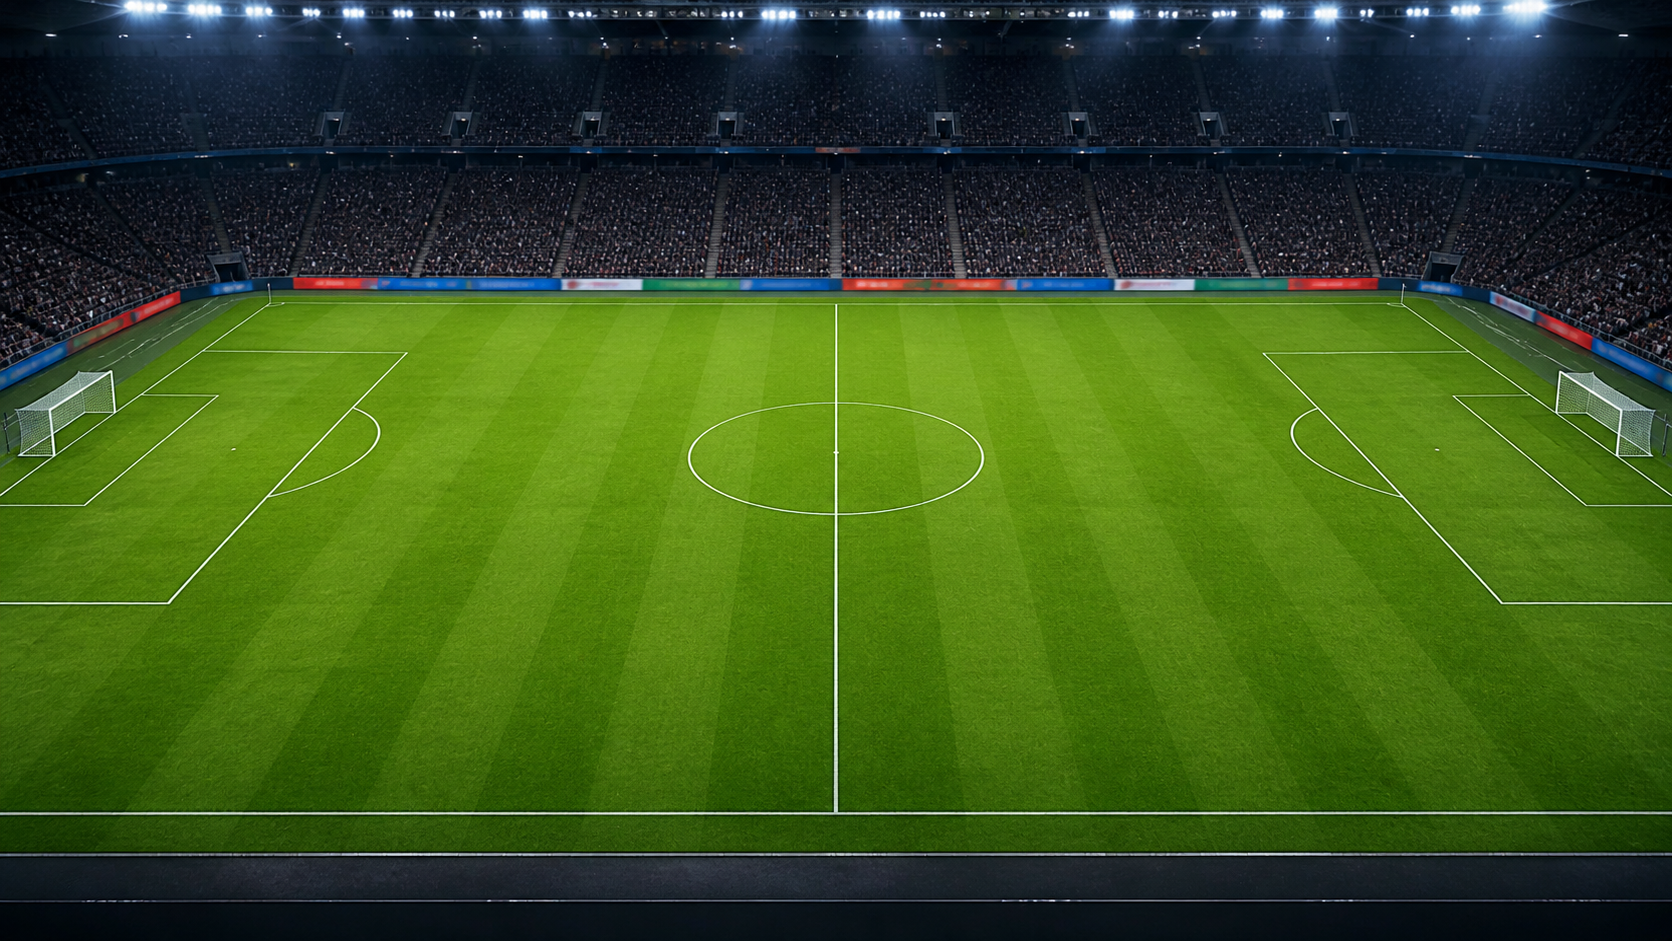
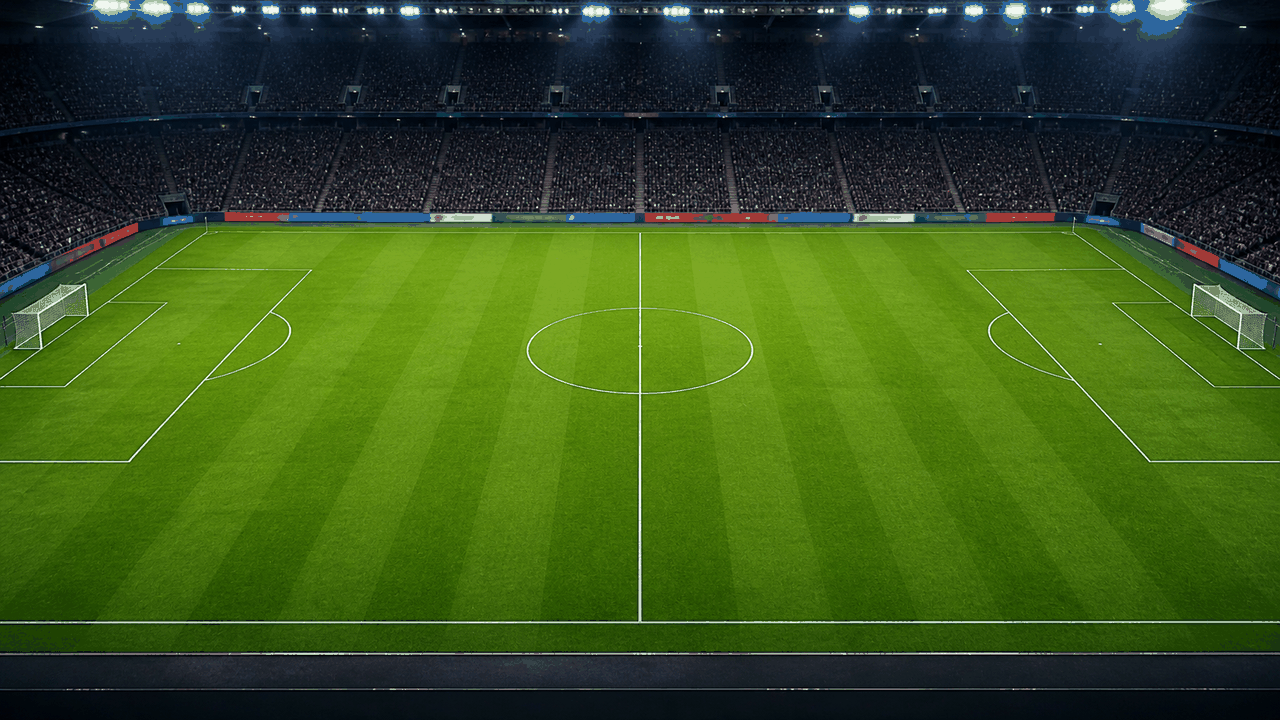
feat(v7): 피치 이미지 최적화(519KB) · 선수단 입장 로딩 게이트 · 가로 UI 보정

diff --git a/js/match.js b/js/match.js
@@ -120,6 +120,9 @@
   var pitchImgTried = false;
   var portraits = {};             /* pic 번호 → { img, ready } */
   var portraitLeft = 0;
+  var portraitNeed = 0;
+  var artGateOn = false;          /* 22명 일러스트가 준비될 때까지 킥오프를 잠깐 미룬다 */
+  var artGateT = 0;
 
   /* 월드 좌표 → 화면 좌표 (사다리꼴 원근 투영) */
   function scr(wx, wy) {
@@ -624,6 +627,11 @@
     say('휘슬이 울립니다! ' + cfg.homeName + ' 대 ' + cfg.awayName + ', 경기 시작!', 'big');
     say('피치 위 상황 배너를 보고 전술 카드를 타이밍에 맞춰 쓰세요.', 'normal');
     pushHud();
+    /* 선수단 입장 연출 — 2.5등신 일러스트가 준비되면 킥오프 */
+    portraitNeed = portraitLeft;
+    artGateOn = portraitNeed > 0;
+    artGateT = 0;
+    if (artGateOn) { M.paused = true; }
     cancelAnimationFrame(rafId);
     rafId = requestAnimationFrame(loop);
   };
@@ -773,7 +781,7 @@
     ctx.imageSmoothingEnabled = true;
     /* 가로 피치 — 스타디움 이미지가 캔버스를 꽉 채운다 */
     field = { x: 0, y: 0, w: W, h: H };
-    SPR_H = Math.round(clamp(H * 0.155, 36, 78));
+    SPR_H = Math.round(clamp(H * 0.168, 38, 82));
     loadPitchImage();
     buildPitchLayer();
   }
@@ -1859,6 +1867,15 @@
     if (!lastT) { lastT = t; }
     var realDt = Math.min(0.05, (t - lastT) / 1000);
     lastT = t;
+    if (artGateOn) {
+      artGateT += realDt;
+      if (portraitLeft <= 0 || artGateT > 6) {
+        artGateOn = false;
+        M.paused = false;
+        acc = 0;
+        say('선수단 입장 완료! 양 팀 22명이 피치에 섰습니다.', 'big');
+      }
+    }
     if (!M.paused) {
       var dt = realDt * M.speed;
       acc += dt;
@@ -2483,6 +2500,26 @@
     }
     DS.Art.drawBall(ctx, bp.x, bp.y - zpx - r * 0.35, r);
 
+    if (artGateOn) {
+      var ready = Math.max(0, portraitNeed - portraitLeft);
+      var pct = portraitNeed ? clamp(ready / portraitNeed, 0, 1) : 1;
+      ctx.fillStyle = 'rgba(3,16,13,0.82)';
+      ctx.fillRect(0, 0, W, H);
+      ctx.textAlign = 'center';
+      ctx.fillStyle = '#0d2a24';
+      ctx.fillStyle = '#eaffd0';
+      ctx.font = '900 17px system-ui, sans-serif';
+      ctx.fillText('선수단 입장 중', W / 2, H / 2 - 16);
+      ctx.font = '700 11px system-ui, sans-serif';
+      ctx.fillStyle = 'rgba(233,244,221,.72)';
+      ctx.fillText('2.5등신 일러스트 ' + ready + ' / ' + portraitNeed + '명 준비', W / 2, H / 2 + 6);
+      var bw = Math.min(240, W * 0.46), bh = 6;
+      ctx.fillStyle = 'rgba(255,255,255,.14)';
+      roundRect(W / 2 - bw / 2, H / 2 + 18, bw, bh, 3); ctx.fill();
+      ctx.fillStyle = '#c8f169';
+      roundRect(W / 2 - bw / 2, H / 2 + 18, Math.max(2, bw * pct), bh, 3); ctx.fill();
+      ctx.textAlign = 'left';
+    }
     if (M.halftime && M.running) {
       ctx.fillStyle = 'rgba(4,20,16,0.55)';
       ctx.fillRect(0, H / 2 - 22, W, 44);
@@ -2529,6 +2566,7 @@
       view: {
         mode: 'landscape', w: W, h: H, sprH: SPR_H, field: field,
         pitchImage: !!(pitchImg && pitchImg.naturalWidth),
+        loadingGate: artGateOn, loadingLeft: portraitLeft,
         portraitsReady: ready, portraitsTotal: (function () { var n = 0; for (kk in portraits) { if (portraits.hasOwnProperty(kk)) { n++; } } return n; })(),
         homeAttack: 'left→right', awayAttack: 'right→left'
       },

diff --git a/css/style.css b/css/style.css
@@ -1022,7 +1022,7 @@ main::-webkit-scrollbar { width: 0; height: 0; }
 #app { max-width: 1280px; }
 
 /* ── 상단 바 ── */
-.topbar { height: 36px; padding: 0 10px; gap: 6px; }
+.topbar { height: 36px; padding: 0 10px 0 62px; gap: 6px; }
 .tb-emblem { width: 20px; height: 23px; }
 .tb-name { font-size: 12px; max-width: 190px; }
 .tb-sub { font-size: 9px; }
@@ -1239,3 +1239,19 @@ body.rot-off .rotate { display: none; }
   .m-ticker { height: 24px; }
   .tabbar button { height: 50px; }
 }
+
+/* v7 보정: 밝은 카드 위 포메이션 칩 · 라커룸 시너지 한 줄 */
+.sq-card .fchip { background: #f1ecdd; border: 1px solid var(--line); color: var(--ink2); }
+.sq-card .fchip.on { background: linear-gradient(170deg, #d6fb8a, #a8da4e); border-color: #a8da4e; color: #1d3b07; box-shadow: 0 2px 6px rgba(120,180,50,.35); }
+.sq-card .fchip.on b { color: #1d3b07; }
+.sq-card .fchip span { color: var(--ink3); }
+.sq-card .fchip.on span { color: #3d6b12; opacity: 1; }
+.sq-syn { padding: 5px 9px; }
+.sq-syn .card-head { margin-bottom: 2px; }
+.sq-syn { display: flex; align-items: center; gap: 5px; flex-wrap: nowrap; overflow: hidden; }
+.sq-syn .card-head { flex: 0 0 auto; margin: 0; }
+.sq-syn .card-head .meta { display: none; }
+.sq-syn .row { flex: 0 0 auto; padding: 0 !important; }
+.sq-syn .row b { display: none; }
+.sq-syn .chip { font-size: 8px; height: 17px; padding: 0 6px; }
+.mgr-strip-btn { margin-left: auto; font-size: 8.5px; font-weight: 800; color: var(--lime); border: 1px solid rgba(200,241,105,.4); border-radius: 7px; padding: 2px 6px; white-space: nowrap; }

diff --git a/js/game.js b/js/game.js
@@ -716,7 +716,7 @@
       '</div>' +
 
       '<aside class="sq-right">' +
-      '<div class="mgr-wrap" data-act="mgrmodal">' + managerHTML('strip') + '<span class="mgr-go">감독실 ›</span></div>' +
+      '<div class="mgr-wrap" data-act="mgrmodal">' + managerHTML('strip') + '<span class="mgr-strip-btn" data-act="mgrmodal">감독실 · 상세 ›</span></div>' +
       '<div class="sq-card"><div class="card-head"><b>포메이션</b><span class="meta">' + f.tag + '</span></div>' +
       '<div class="fwrap">' + chips + '</div></div>' +
       '<div class="sq-card">' + kpiHTML + '</div>' +
